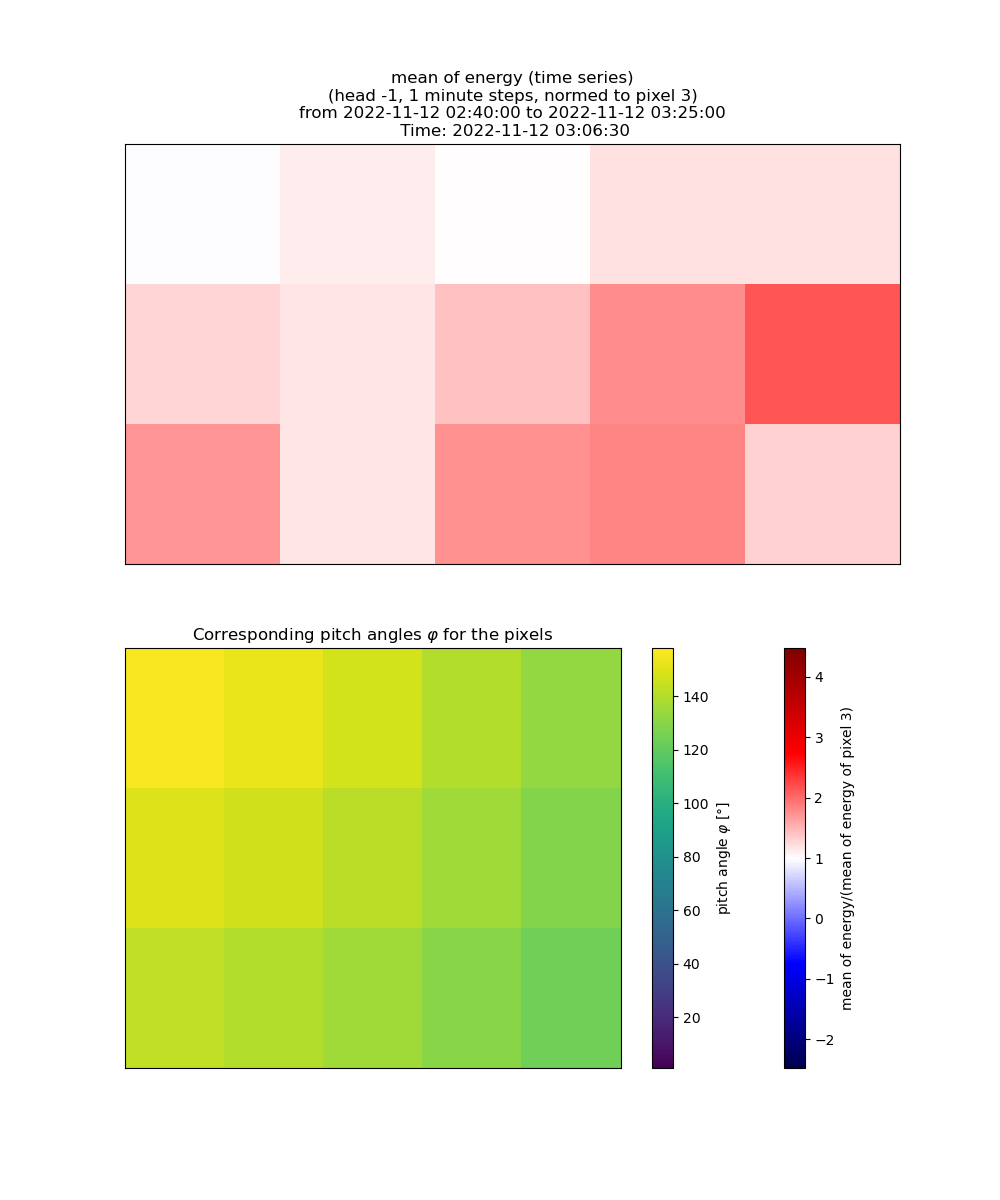
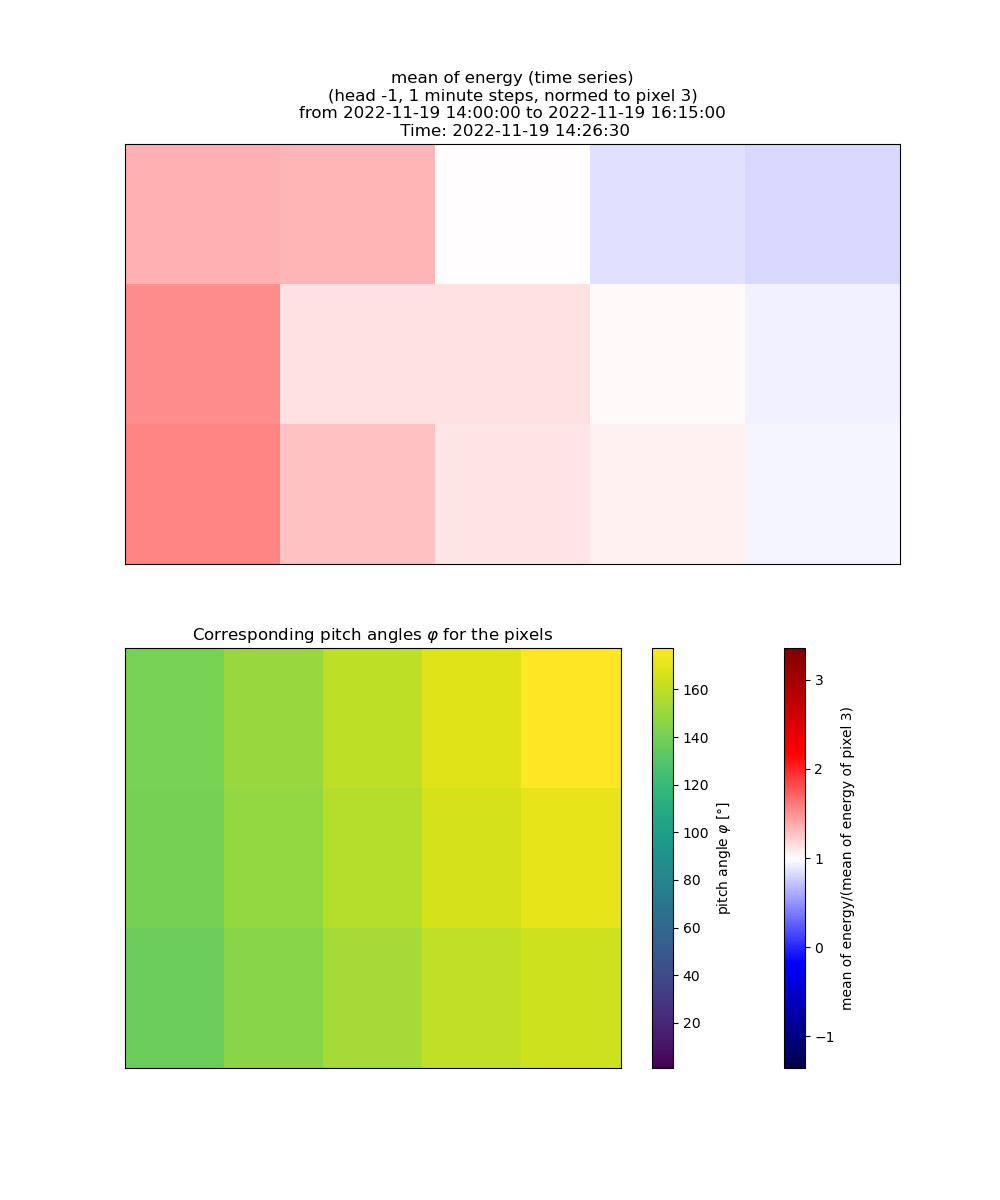
Ich sollte nochmal in die Magnetfelddaten schauen...

diff --git a/total_comparison.py b/total_comparison.py
@@ -21,31 +21,10 @@ ebins = np.array([  0.98 ,   2.144,   2.336,   2.544,   2.784,   3.04 ,   3.312,
        137.216, 149.504, 162.816, 178.176, 194.56 , 211.968, 230.4  ,
        372.736])
 
-### 2021-12-4 ###
-
-# dat = STEP(2021, 12, 4, mag_path = 'default', mag_frame = 'srf')
-# # dat = STEP(2021, 12, 4, rpath='data/STEP/', mag_path='data/mag/srf', mag_frame = 'srf')
-# period =(dt.datetime(2021,12,4,13,50),dt.datetime(2021,12,4,14,30))
-# def grenz(t):
-#     return -0.5*t + 20
-
-
-### 2022-11-12 ###
-
-dat = STEP(2022, 11, 12, mag_path='default', mag_frame='srf')
-period = (dt.datetime(2022,11,12,2,40),dt.datetime(2022,11,12,3,25))
-grenz = None
-
-
-### 2022-11-19 ###
-
-# dat = STEP(2022, 11, 19, mag_path = 'default', mag_frame = 'srf')
-# period = (dt.datetime(2022,11,19,14),dt.datetime(2022,11,19,16,15))
-# grenz = None
 
 
 
-def func_total_comparison(dat=dat, period=period, grenz=grenz):
+def func_total_comparison(dat, period, grenz):
     pixel_means5, pixel_var5 = dat.calc_energy_means(ebins=ebins,head=-1, period=period, grenzfunktion=grenz, norm='ptmax')
     pw5, pw5_time = dat.calc_pw(period, window_width=5)
     year = str(period[0].year - 2000)
@@ -92,7 +71,7 @@ def func_total_comparison(dat=dat, period=period, grenz=grenz):
         plt.close('all')
         
         
-def step_plot_correction(dat=dat, period=period, grenz=grenz):
+def step_plot_correction(dat, period, grenz):
     pixel_means, pixel_var = dat.calc_energy_means(ebins=ebins,head=-1, period=period, grenzfunktion=grenz, norm='ptmax')
     pw, pw_time = dat.calc_pw(period, window_width=5)
     year = str(period[0].year - 2000)
@@ -121,7 +100,7 @@ def step_plot_correction(dat=dat, period=period, grenz=grenz):
     plt.close('all')
     
 
-    fig, ax = dat.step_plot('time', 'difference of energy means [keV]', 'difference of energy means with correction')
+    fig, ax = dat.step_plot('time', 'difference of energy means [keV]', f'difference of corrected energy means to pixel {pixel1}')
         
     for pixel2 in range(1,16):
         # Übergebe willkürliche Fehler, da ich diese eh nicht brauche.
@@ -134,7 +113,35 @@ def step_plot_correction(dat=dat, period=period, grenz=grenz):
         ax[pixel2].tick_params(axis='x',labelrotation=45)
     plt.savefig(f'total_comparison/step_plot_total_correction_differences_energy_pixel{pixel1}_{year}_{month}_{day}.png')
     plt.close('all')
+    
+    
 
+### 2021-12-4 ###
+
+dat = STEP(2021, 12, 4, mag_path = 'default', mag_frame = 'srf')
+# dat = STEP(2021, 12, 4, rpath='data/STEP/', mag_path='data/mag/srf', mag_frame = 'srf')
+period =(dt.datetime(2021,12,4,13,50),dt.datetime(2021,12,4,14,30))
+def grenz(t):
+    return -0.5*t + 20
+
+func_total_comparison(dat,period,grenz)
+step_plot_correction(dat,period,grenz)
+
+### 2022-11-12 ###
+
+dat = STEP(2022, 11, 12, mag_path='default', mag_frame='srf')
+period = (dt.datetime(2022,11,12,2,40),dt.datetime(2022,11,12,3,25))
+grenz = None
+
+func_total_comparison(dat,period,grenz)
+step_plot_correction(dat,period,grenz)
+
+
+### 2022-11-19 ###
+
+dat = STEP(2022, 11, 19, mag_path = 'default', mag_frame = 'srf')
+period = (dt.datetime(2022,11,19,14),dt.datetime(2022,11,19,16,15))
+grenz = None
 
 func_total_comparison(dat,period,grenz)
 step_plot_correction(dat,period,grenz)

diff --git a/mag.py b/mag.py
@@ -214,7 +214,7 @@ class MAGdata(object):
         plt.show()
         
     def pw_ts(self,rpath,pixel_list,period=None,window_width=None):
-        '''Plottet die Piitchwinkel für alle angegebenen Pixel.'''
+        '''Plottet die Pitchwinkel für alle angegebenen Pixel.'''
         fig, ax = plt.subplots(figsize=(10,6))
 
         if period != None and window_width == None:
